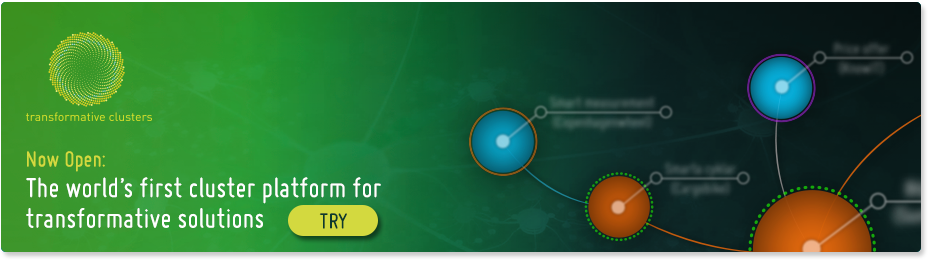
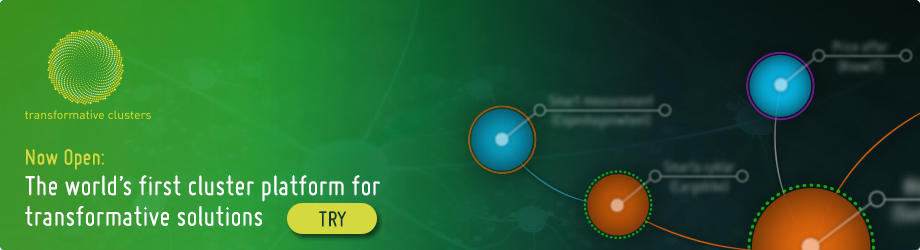
styling

Changed region(s): [[0.0, 0.0, 1.0, 1.0], [0.0, 0.112, 0.1826, 0.476], [0.487, 0.392, 0.7304, 0.7]]

diff --git a/cluster/css/cluster.css b/cluster/css/cluster.css
@@ -14,7 +14,7 @@ body, html {
 	font-size: 120%;
 	margin: 0;
 	padding: 0;
-	background: #666;
+	background: #404040;
 	overflow-x: hidden;
 }
 
@@ -104,7 +104,7 @@ hr {
     display: block;
     height: 1px;
     border: 0;
-    border-top: 2px dotted #ccc;
+    border-top: 2px dotted #717983;
     margin: 1em 0;
     padding: 0;
 }
@@ -151,7 +151,7 @@ hr {
 	white-space: nowrap;
 }
 .page-stripe {
-	background: #333;
+	background: #252525;
 	color: #ddd;
 	font-family: 'Miso', sans-serif;
 }
@@ -171,19 +171,33 @@ hr {
 	color: grey;
 }
 .page-stripe a:hover{
-	background: #555;
+	background: rgba(255, 255, 255, 0.1);
 }
 .page-stripe a.active{
 	padding-bottom: 0;
 	border: 0 solid #ddd;
 	border-width: 0 0 7px 0;
 }
+.page-stripe.header a {
+	color: #1C8395;
+}
+.page-stripe.header a.active {
+	color: #fff;
+	border-width: 0;
+	padding: 7px 12px;
+}
+.page-stripe.header a span {
+	display: none;
+}
+.page-stripe.header a.active span {
+	display: inline;
+}
 .footer .title { font-size: 80%; padding: 6px 0; }
 .footer a { padding: 0 }
 .footer img { margin-right: 10px }
 
 .toolbar {
-	background: #444
+	background: #062c27
 }
 .toolset select {
 	border: 1px solid #1A3637;
@@ -252,15 +266,17 @@ hr {
 .updates .block b {
 	display: inline-block;
 	vertical-align: middle;
-	width: 30px;
-	font-size: 200%;
-	text-align: right
+	width: 40px;
+	font-size: 250%;
+	text-align: right;
+	color: #454545;
 }
 .updates .block .specifier {
 	display: inline-block;
 	width: 100px;
 	vertical-align: middle;
 	margin-left: 10px;
+	color: #717983;
 }
 .introductions {
 	background: url(../img/home_clusters_bg.png) center top;
@@ -435,12 +451,13 @@ canvas#canvas {
 	left: 70px; 
 	top: 0; 
 	right: 0; 
-	background: rgba(0,0,0,0.75);
+	background-color: rgba(0, 0, 0, 0.65);
 	font-family: 'Miso', sans-serif;
 	text-align: center;
 	padding: 5px 5px 5px 5px;
-	color: #39B7EA;
+	color: #1c8395;
 	font-size: 120%;
+	text-shadow: #000 0 0 15px, #000 0 0 15px, #000 0 0 15px, #000 0 0 15px;
 }
 .tab-bar {
 	position: absolute;
@@ -609,7 +626,7 @@ canvas#canvas {
 	width: 40%
 }
 .modal li a {
-	color: #8fc;
+	color: #4c972f;
 }
 
 .solution-form {

diff --git a/nomnoml/index.html b/nomnoml/index.html
@@ -374,8 +374,8 @@ a:hover {
 			setFont(ast, 'normal')
 			g.ctx.textAlign = 'left'
 			g.ctx.strokeRect(0.5, 0.5, layout.width+2*frameMarg, layout.height+frameMarg*3+lineHeight)
-			var w = g.ctx.measureText(title).width + frameMarg + 0.5
-			var h = lineHeight+frameMarg + 0.5
+			var w = g.ctx.measureText(title).width + frameMarg
+			var h = lineHeight+frameMarg
 			g.path([{x:0, y:h}, {x:w-frameMarg*2/3, y:h}, {x:w, y:h-frameMarg}, {x:w, y:0}]).stroke()
 			g.ctx.fillText(ast.frame, frameMarg/2, frameMarg/2 + lineHeight)
 		}
@@ -392,7 +392,7 @@ a:hover {
 		g.ctx.strokeStyle = '#111'
 		g.ctx.lineWidth = 1
 
-		g.ctx.translate((g.width() - layout.width)/2, 0)
+		g.ctx.translate(rnd((g.width() - layout.width)/2)+0.5, 0.5)
 
 		if (ast.frame)
 			drawFrame(ast.frame, layout)
@@ -433,8 +433,8 @@ a:hover {
 		_.each(layout.nodes, function (e){
 			var w = e.width
 			var h = e.height
-			var rx = rnd(e.x-w/2)+0.5
-			var ry = rnd(e.y-h/2)+0.5
+			var rx = rnd(e.x-w/2)
+			var ry = rnd(e.y-h/2)
 			var y = e.y-h/2
 			g.ctx.fillStyle = 'rgba(220, 220, 220, 1)'
 			g.ctx.fillRect(rx, ry, w, h)
@@ -447,7 +447,7 @@ a:hover {
 				g.ctx.fillText(e.name, e.x, y+ast.fontSize/5)
 			} else {
 				g.ctx.fillText(e.name, e.x, y)
-				y += rnd(lineHeight/2)+0.5
+				y += rnd(lineHeight/2)
 				var line = [{x: rx, y: y}, {x: rx+w, y: y}]
 				g.path(line).stroke()
 				g.path(line, {x:0, y:rnd((e.attrs.length+0.75)*lineHeight)}).stroke()

diff --git a/cluster/style.css b/cluster/style.css
@@ -46,6 +46,7 @@ a:active{color: #d6df2a; text-decoration:underline;}
 
 .gradient{
     border-radius: 5px;
+    box-shadow: 7px 7px 10px rgba(0, 0, 0, 0.2) !important;
     background: -moz-linear-gradient(top,  rgba(20,125,186,0.9) 0%, rgba(0,105,166,0.5) 100%); /* FF3.6+ */
     background: -webkit-gradient(linear, left top, left bottom, color-stop(0%,rgba(242,242,242,0.9)), color-stop(100%,rgba(0,105,166,0.5))); /* Chrome,Safari4+ */
     background: -webkit-linear-gradient(top,  rgba(20,125,186,0.9) 0%,rgba(0,105,166,0.5) 100%); /* Chrome10+,Safari5.1+ */
@@ -54,7 +55,12 @@ a:active{color: #d6df2a; text-decoration:underline;}
     background: linear-gradient(to bottom,  rgba(20,125,186,0.9) 0%,rgba(0,105,166,0.5) 100%); /* W3C */
     filter: progid:DXImageTransform.Microsoft.gradient( startColorstr='#66f2f2f2', endColorstr='#290069a6',GradientType=0 ); /* IE6-9 */
     
-    box-shadow: 7px 7px 10px RGBA(0,0,0,0.1);
+}
+
+#results.gradient {
+    padding: 5px 0;
+    background: url(indicator/images/below.jpg);
+    background-size: cover;
 }
 
 .shadow {box-shadow: 7px 7px 10px RGBA(0,0,0,0.1);}
@@ -119,14 +125,12 @@ h1{
     left: 670px;
 }
 
-#banner {
-
-}
 #banner img {
     width: 100%;
     height: auto;
     position: relative;
     top: 390px;
+    box-shadow: 7px 7px 10px rgba(0, 0, 0, 0.2);
 }
 
 #resultsheader{

diff --git a/cluster/platform.html b/cluster/platform.html
@@ -20,19 +20,19 @@
 	<div class="full-row page-stripe header" ng-controller="NavbarCtrl">
 		<div class="pull-right" ng-hide="isApp('login')">
 			<a ng-class="{active: isApp('dashboard')}" href="#/dashboard">
-				<i class="fa fa-home"></i> <span class="hidden-sm">Dashboard</span>
+				<i class="fa fa-home fa-lg fa-fw"></i> <span class="hidden-sm">DASHBOARD</span>
 			</a>
 			<a ng-class="{active: isApp('goals')}" href="#/goals">
-				<i class="fa fa-trophy"></i> <span class="hidden-sm">Goals</span>
+				<i class="fa fa-trophy fa-lg fa-fw"></i> <span class="hidden-sm">GOALS</span>
 			</a>
 			<a ng-class="{active: isApp('searchclusters')}" href="#/searchclusters">
-				<i class="fa fa-search"></i> <span class="hidden-sm">Search</span>
+				<i class="fa fa-search fa-lg fa-fw"></i> <span class="hidden-sm">SEARCH</span>
 			</a>
 			<a ng-class="{active: isApp('cluster')||isApp('network')||isApp('map')}" 
 			   href="#/cluster/1">
-				<i class="fa fa-lightbulb-o"></i> <span class="hidden-sm">Solutions</span>
+				<i class="fa fa-lightbulb-o fa-lg fa-fw"></i> <span class="hidden-sm">SOLUTIONS</span>
 			</a>
-			<a href="#"><i class="fa fa-power-off"></i></a>
+			<a href="#"><i class="fa fa-power-off fa-lg fa-fw"></i></a>
 		</div>
 		<div class="title">Cluster Platform for Transformative Solutions</div>
 	</div>

diff --git a/cluster/index.html b/cluster/index.html
@@ -77,12 +77,12 @@
 
                     </div>
 
-                    <a href="platform.html" id="banner">
+                    <a href="platform.html" id="banner" class="gradient">
                         <img src="images/banner.png">
                     </a>
 
                     <h2 id="resultsheader">The results for the seven goals below will be presented in real-time starting Q1 2014</h2>    
-                    <div id="results" class="gradient">
+                    <div id="results" class="gradient" style="padding: 4px 0; border-radius">
                         <script type="text/javascript" src="indicator/processing.js"></script>
                         <script type="text/javascript">var daysLeft = null</script>
                         <canvas id="mysketch" data-processing-sources="indicator/indicator.pde"></canvas>

diff --git a/cluster/indexswe.html b/cluster/indexswe.html
@@ -74,7 +74,7 @@ TRANSFORMATIVA LÖSNINGAR</h1>
 
                     </div>
 
-                    <a href="platform.html" id="banner">
+                    <a href="platform.html" id="banner" class="gradient">
                         <img src="images/banner.png">
                     </a>
                     

diff --git a/cluster/indexchn.html b/cluster/indexchn.html
@@ -75,7 +75,7 @@
 
                     </div>
 
-                    <a href="platform.html" id="banner">
+                    <a href="platform.html" id="banner" class="gradient">
                         <img src="images/banner.png">
                     </a>
                     
